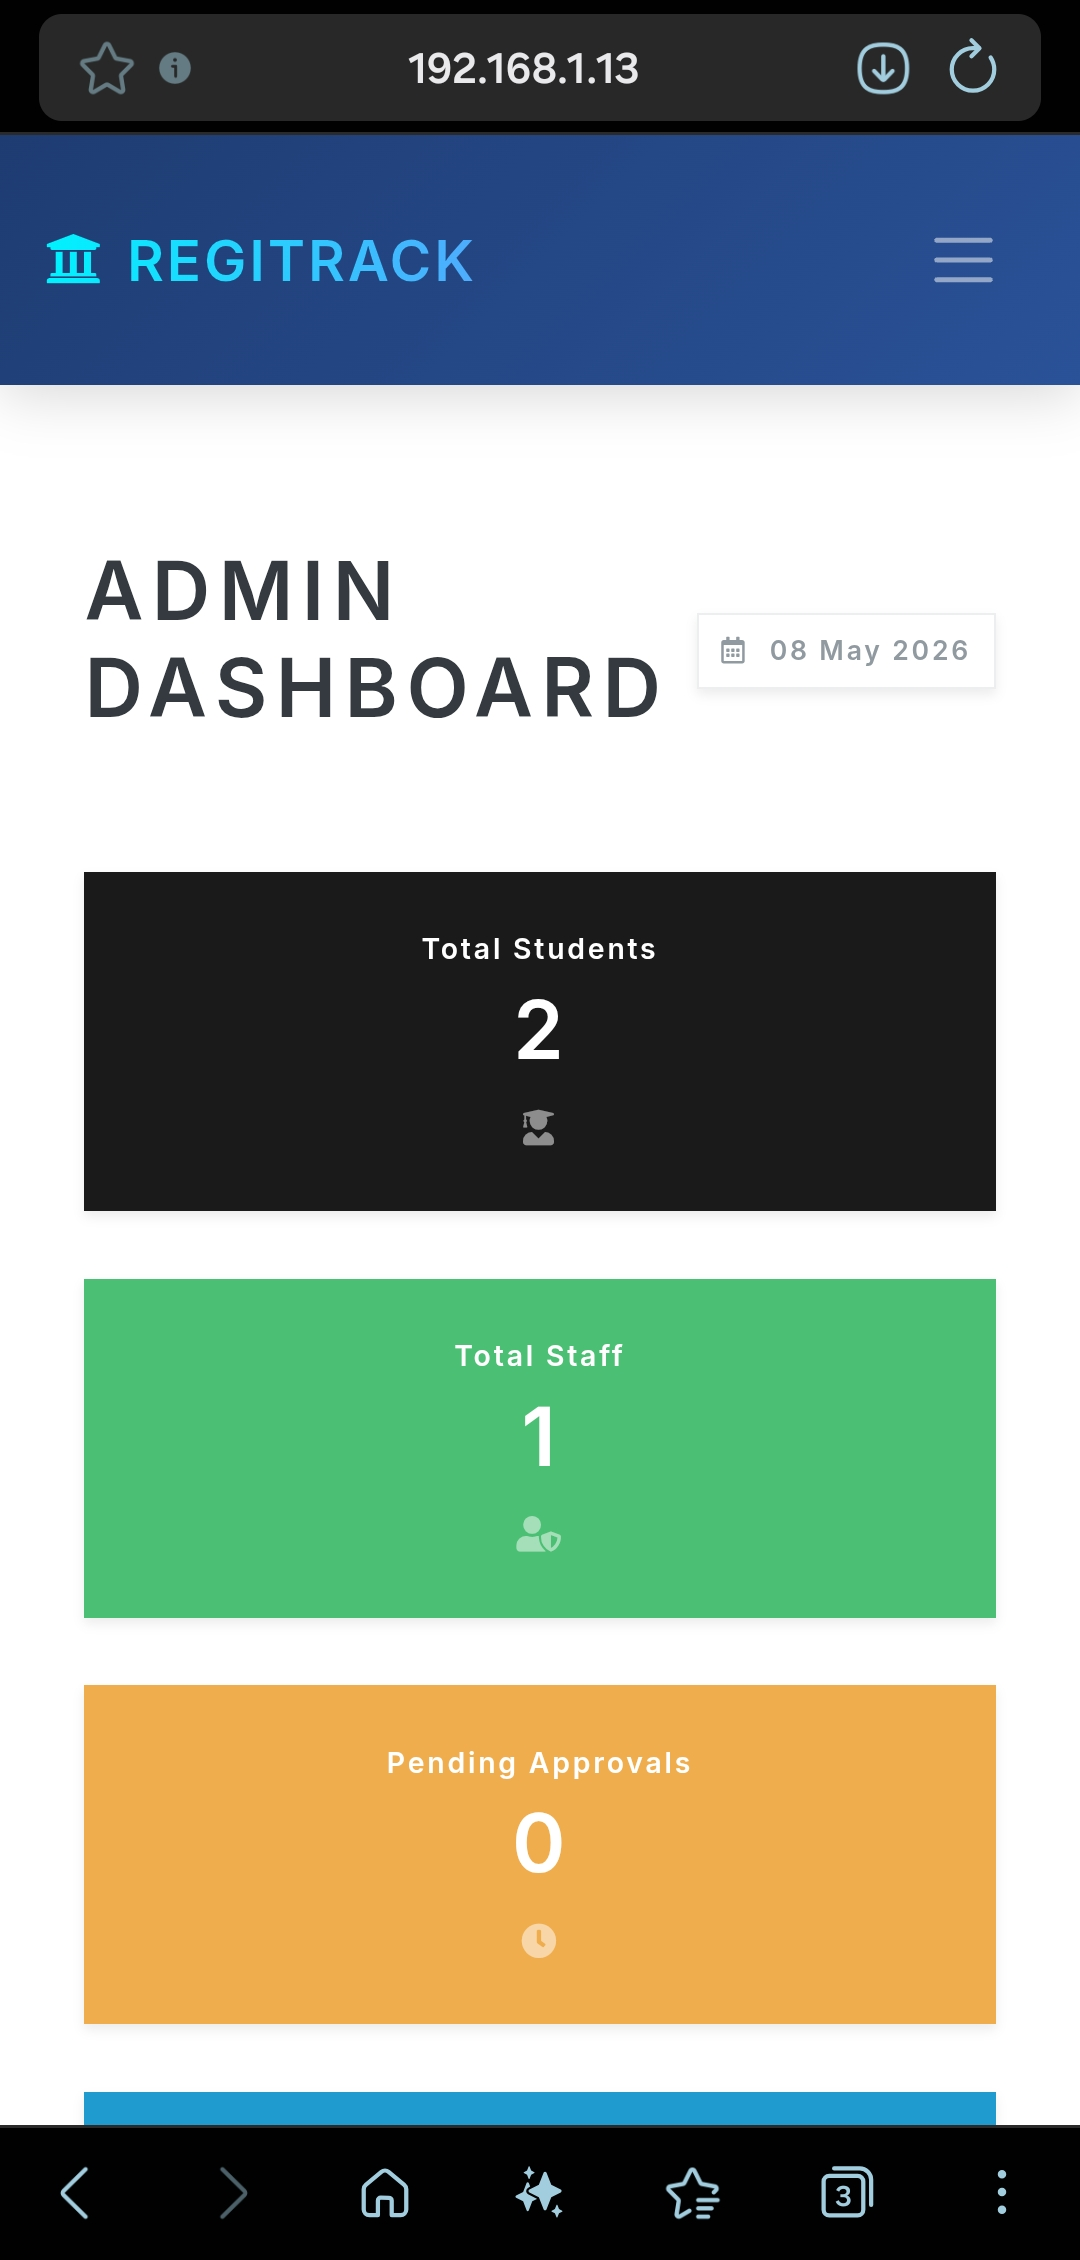
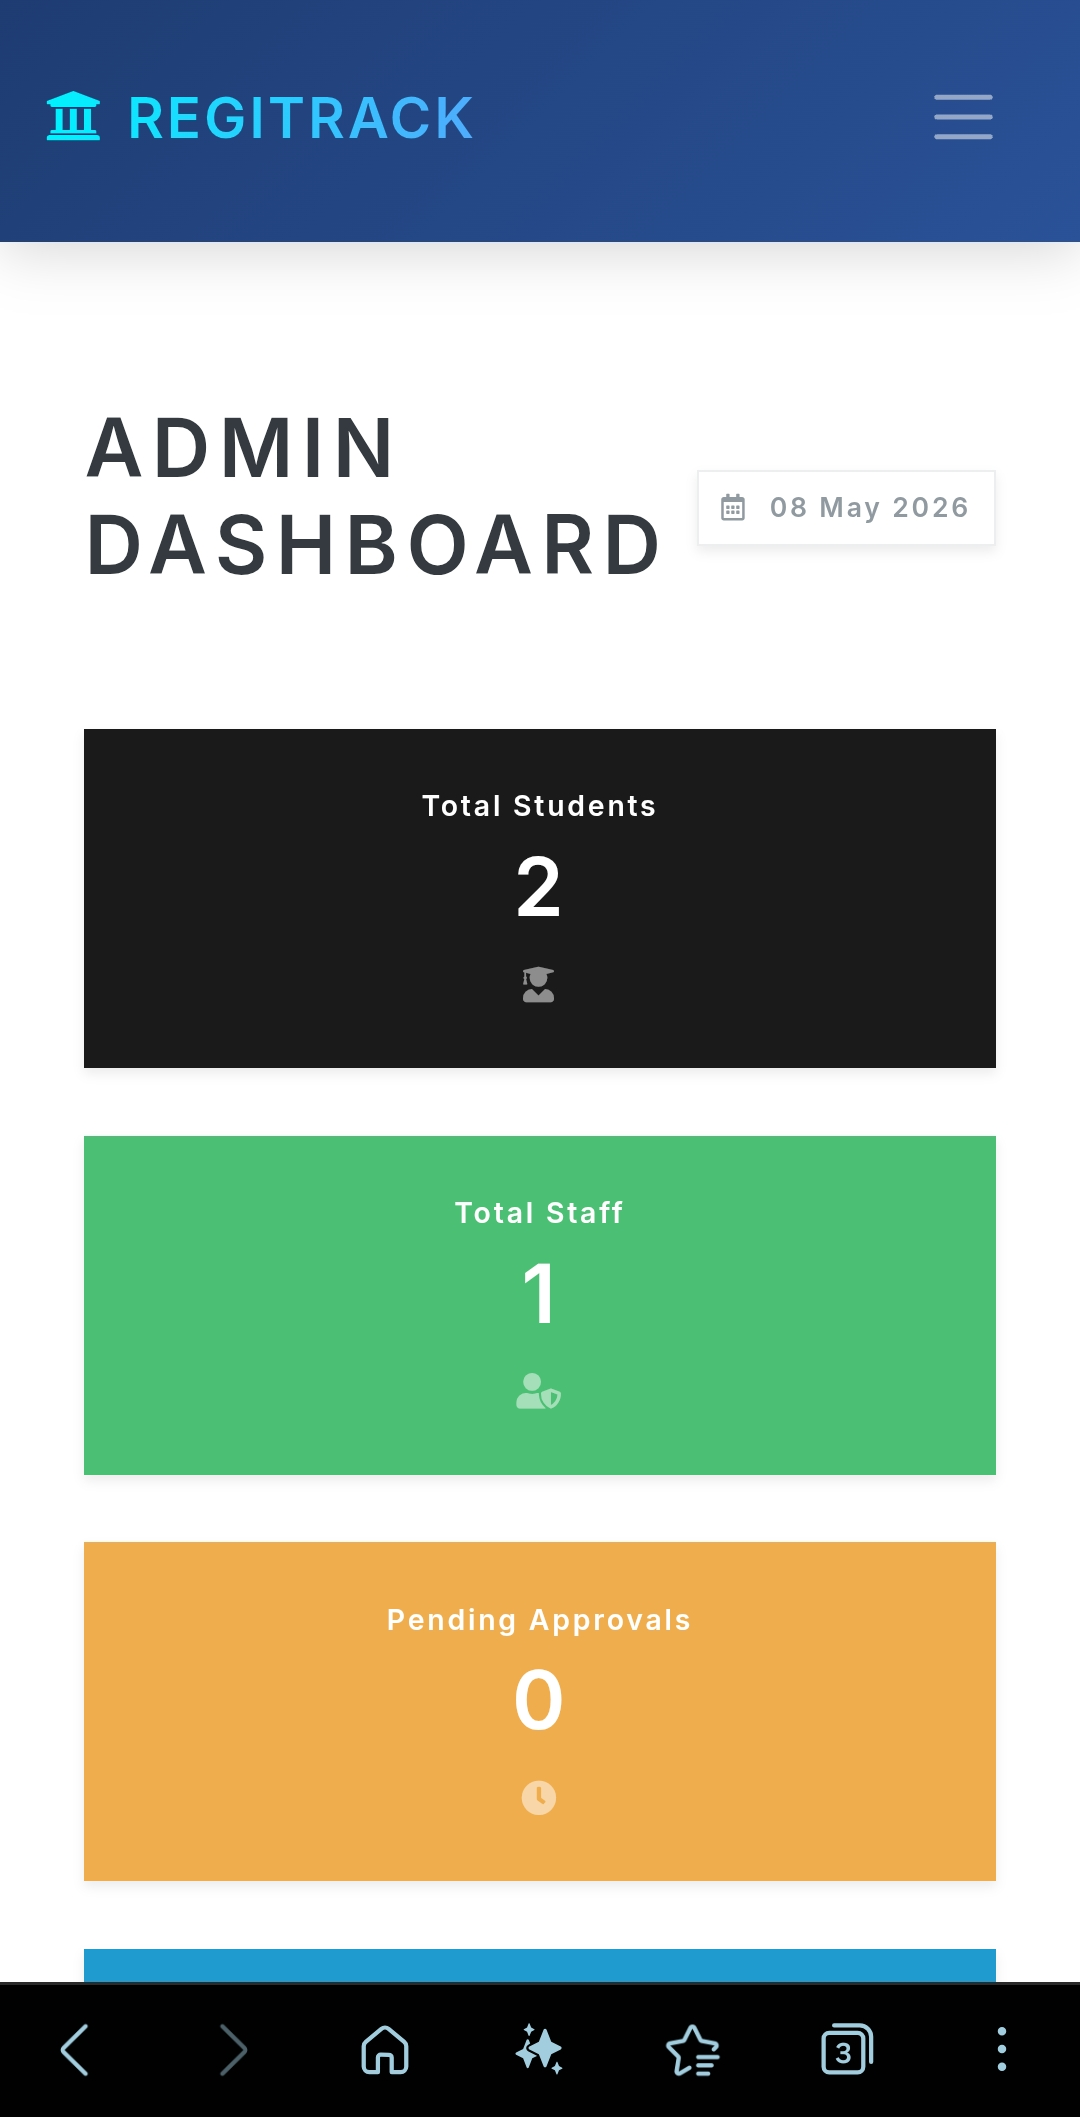
docs: update README images and adjust layout dimensions for dashboard and phone views

diff --git a/README.md b/README.md
@@ -11,7 +11,7 @@ RegiTrack is a comprehensive, enterprise-grade **Hostel Management System** desi
 ## ✨ Visual Preview
 
 <div align="center">
-  <img src="./phoneView.png" width="800">
+  <img src="./dashboard.png" alt="RegiTrack Dashboard Mockup" width="1200">
   <br>
   <em>Premium Dashboard with real-time analytics and Glassmorphism design.</em>
 </div>
@@ -19,7 +19,7 @@ RegiTrack is a comprehensive, enterprise-grade **Hostel Management System** desi
 <br>
 
 <div align="center">
-  <img src="./dashboard.png" alt="RegiTrack Mobile Mockup" width="300">
+  <img src="./phoneView.png" alt="RegiTrack Dashboard Mobile" width="300">
   <br>
   <em>Mobile-optimized interface for on-the-go management.</em>
 </div>